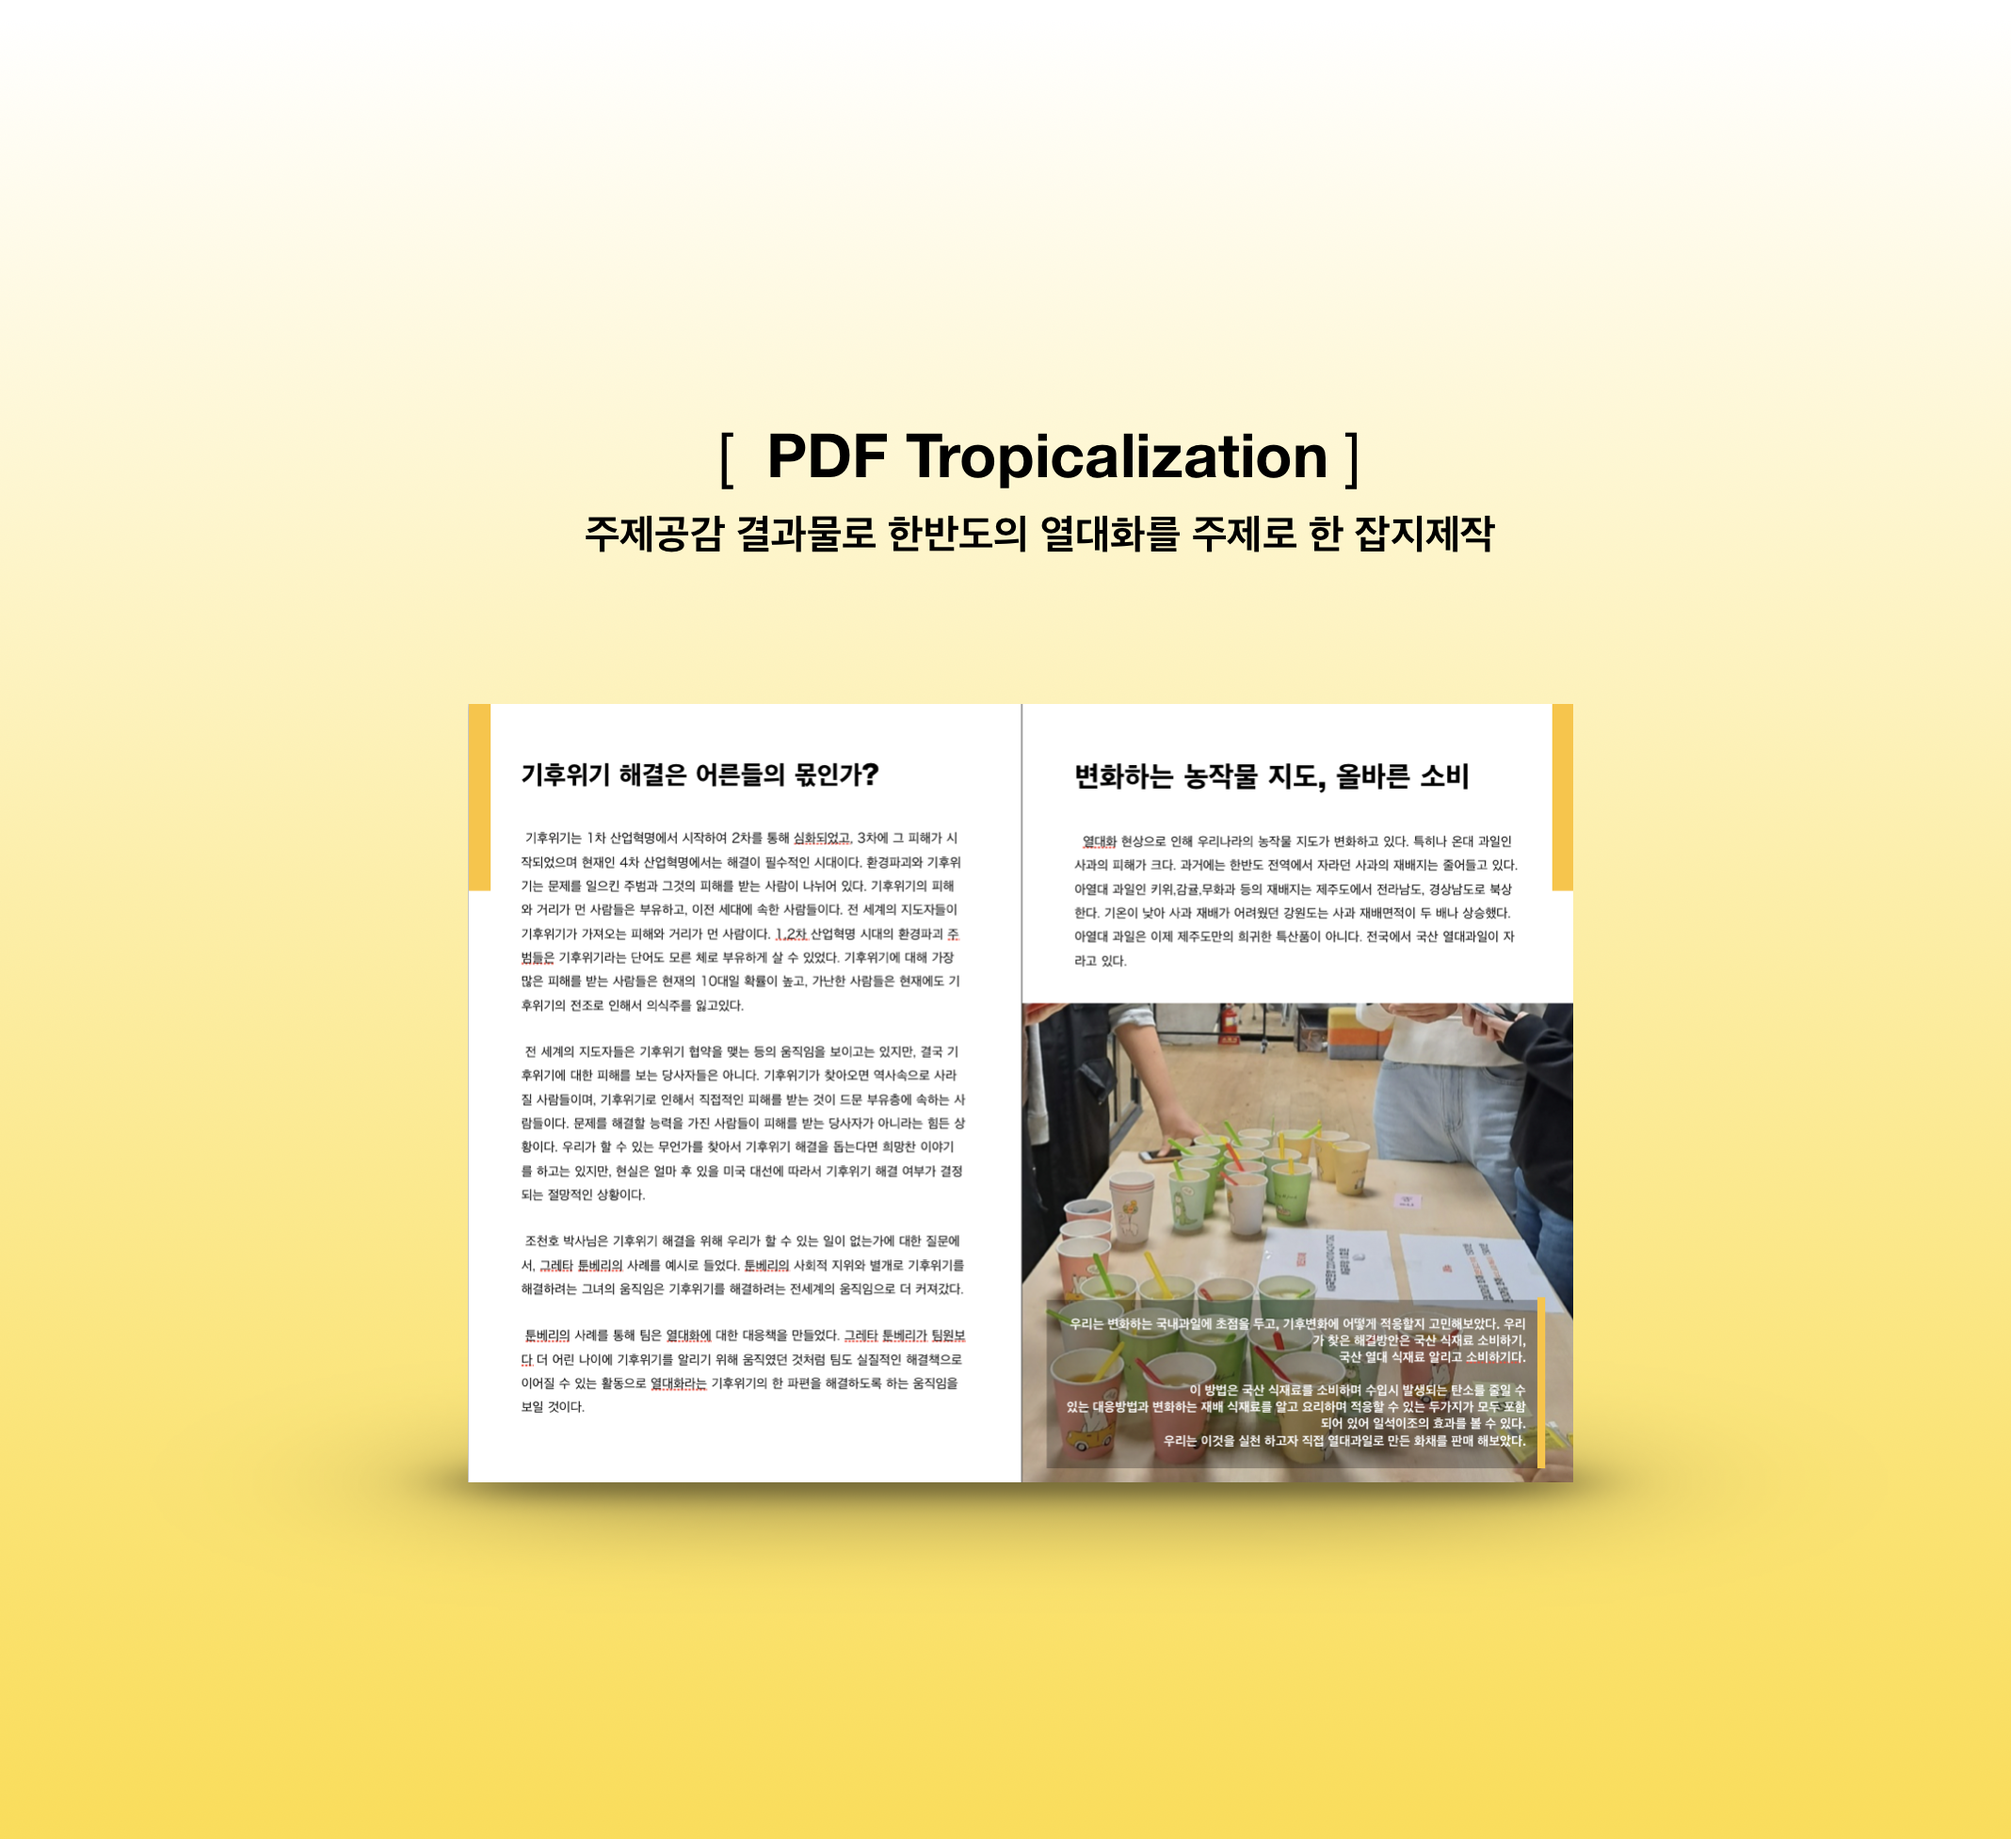
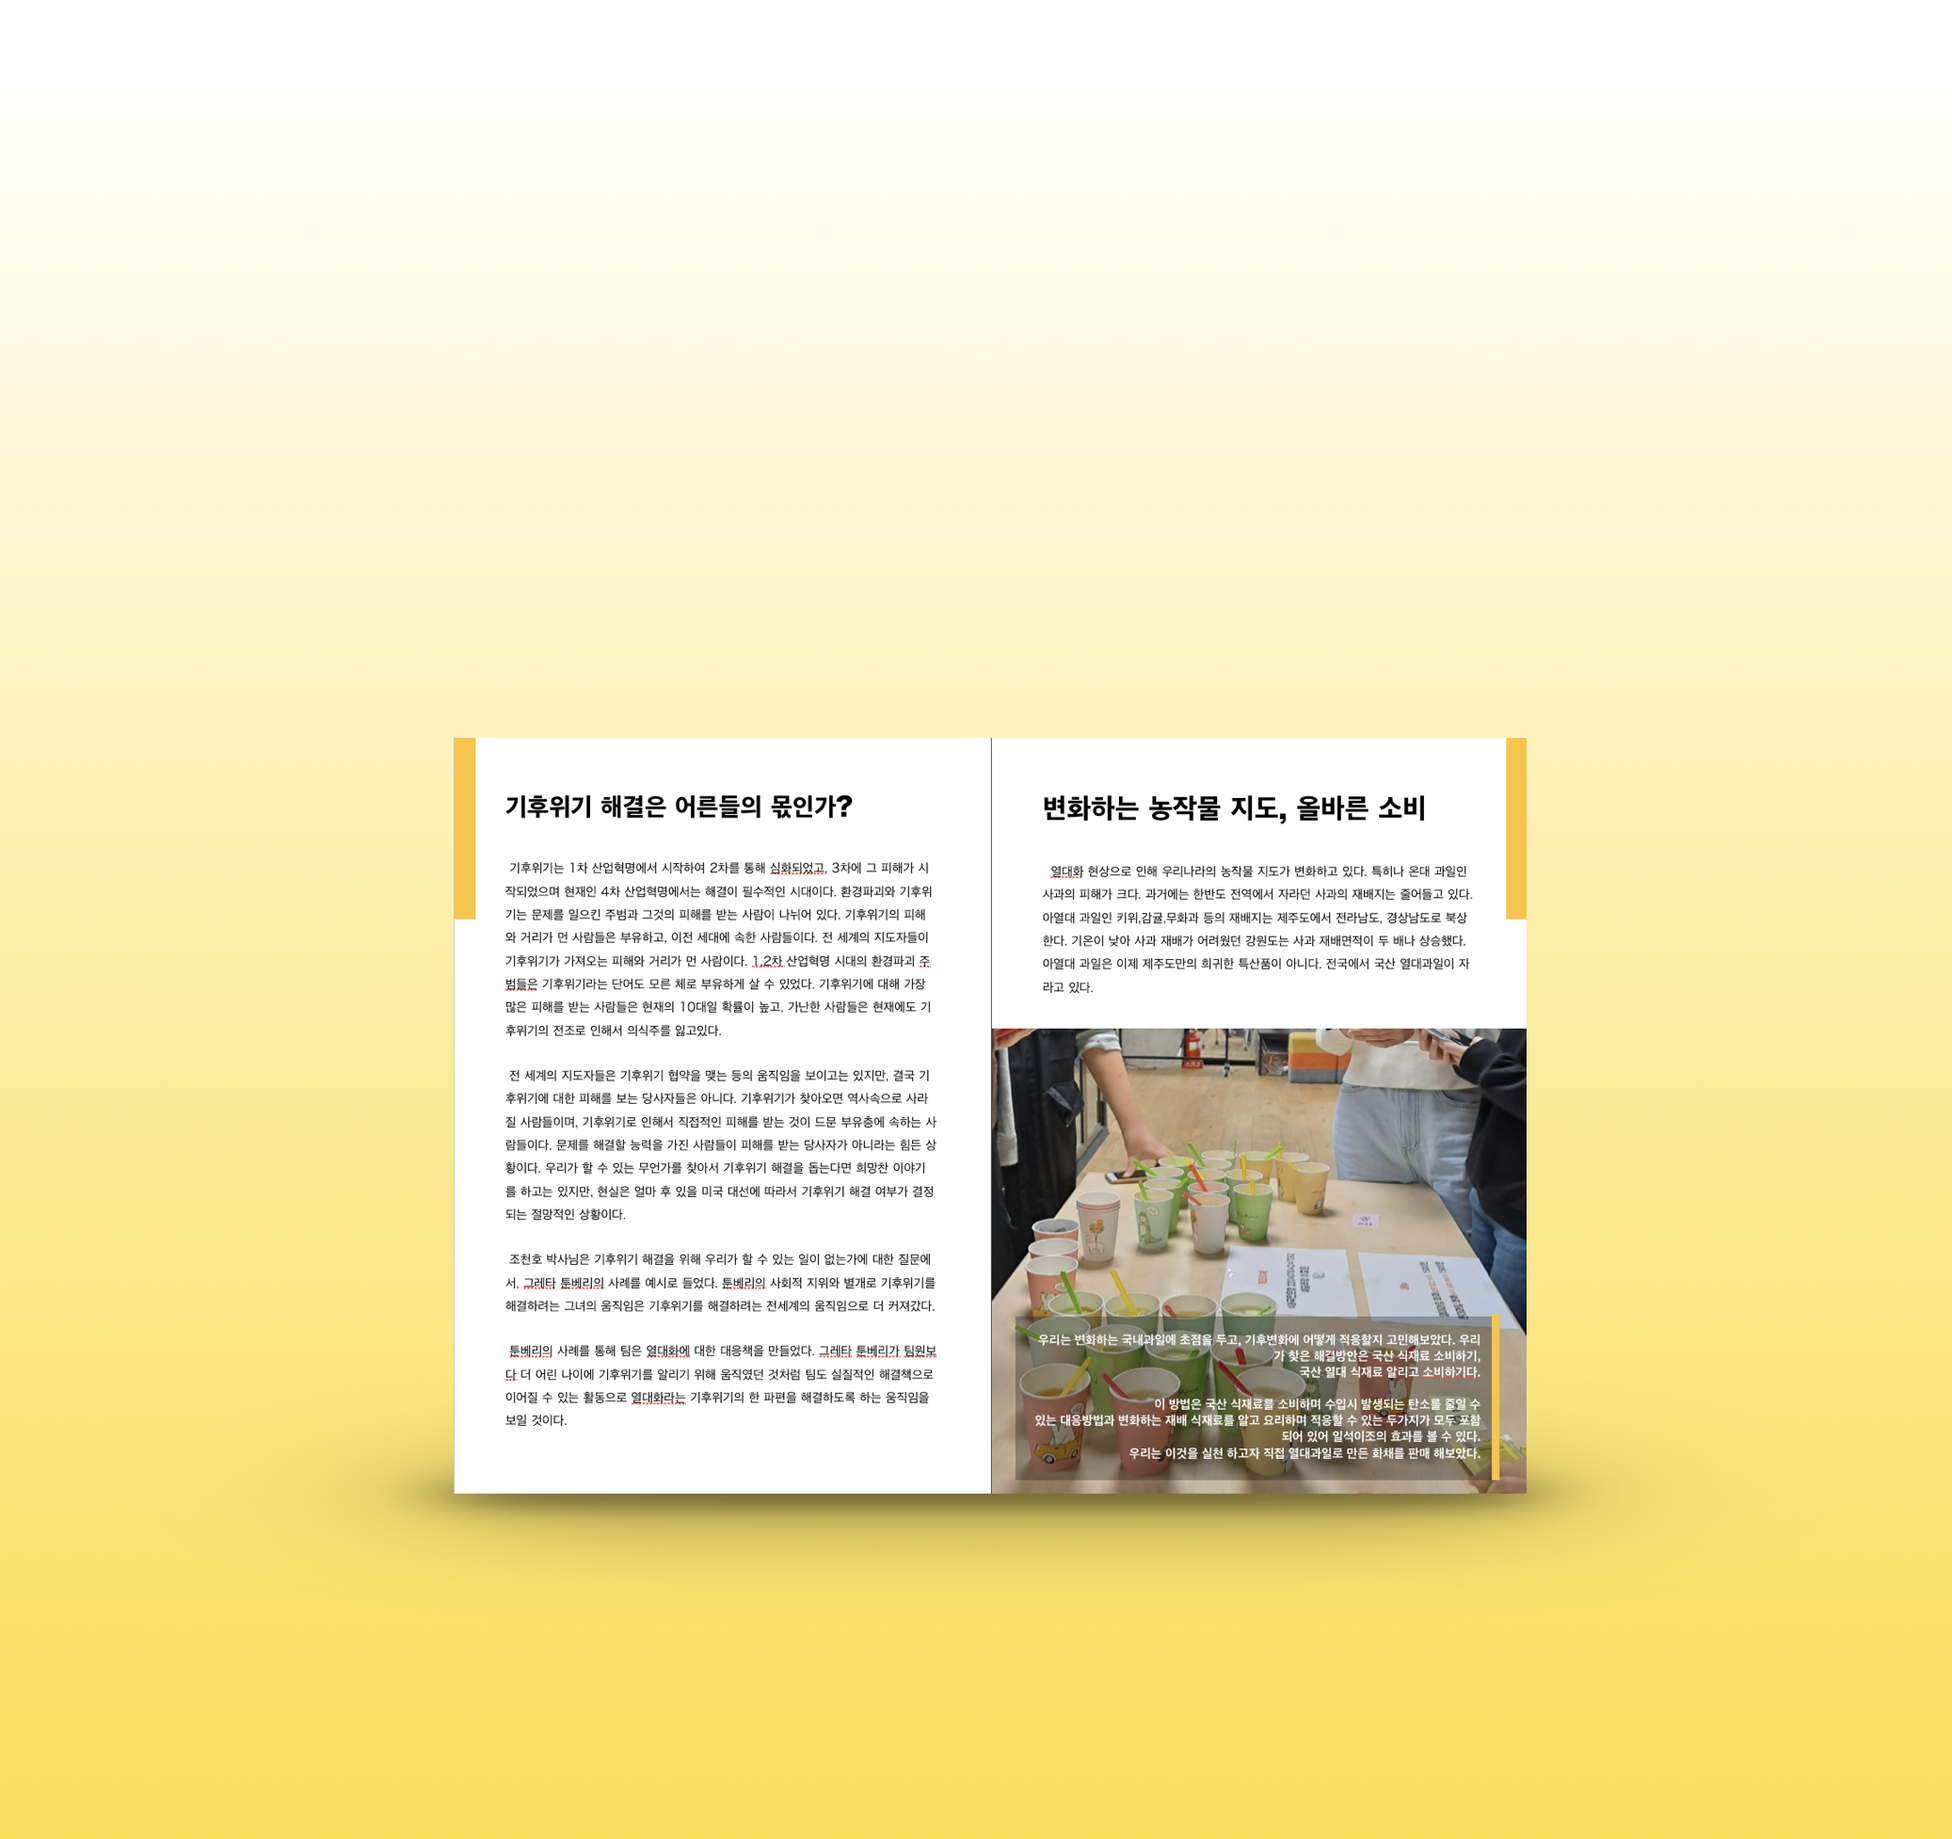
.

Changed region(s): [[0.216, 0.3746, 0.8023, 0.8429], [0.2777, 0.2185, 0.7406, 0.3122]]

diff --git a/judy.css b/judy.css
@@ -1,9 +1,6 @@
 @import url('https://fonts.googleapis.com/css2?family=Permanent+Marker&display=swap');
-@import url('https://fonts.googleapis.com/css2?family=Lato&display=swap');
 @import url('https://fonts.googleapis.com/css2?family=Bangers&display=swap');
-@import url('https://fonts.googleapis.com/css2?family=Caveat:wght@700&display=swap');
 @import url('https://fonts.googleapis.com/css2?family=Architects+Daughter&display=swap');
-
 
 /* header */
 .header {
@@ -82,8 +79,10 @@ margin: 0px auto;
 /* 팀,개인 프로젝트 */
 .my {
   text-align: center;
-  font-size: 40px ;
+  font-size: 36px;
   margin-bottom: 20px;
+  font-weight: 600;
+  font-family: 'Architects Daughter', cursive;
 }
 /* 1m개주프 */
 .container {
@@ -179,13 +178,33 @@ margin: 0px auto;
 .m32 {
     text-align: right;
     margin-right: 5%;
-    font-size: 40px ;
+    font-size: 36px;
     margin-bottom: 20px;
+    font-weight: 600;
+    font-family: 'Architects Daughter', cursive;
 }
 .m33 img {
-    width: 80%;
+    width: 70%;
     display: block;
     margin: 0 auto;
+}
+.m33 {
+    position: relative;
+}
+.m34 {
+    position: absolute;
+	top: 25%;
+    left: 42%;
+    text-align: center;
+    font-size: 33px;
+    font-weight: 700;
+    font-family: 'Architects Daughter', cursive;
+}
+.m33 strong {
+    position: absolute;
+	top: 31%;
+    left: 39%;
+    font-size: 20px;
 }
 /* 3m 개주프 */
 .container3 {
@@ -217,6 +236,7 @@ margin: 0px auto;
 .b3 img{
     width: 80px;
  }
+
 /* 4m */
 .map {
     position: relative;
@@ -244,8 +264,9 @@ margin: 0px auto;
 	left: 32%;
 }
 .mt1,.mt2{
-    font-size: 25px;
+    font-size: 35px;
     font-weight: 900;
+    font-family: 'Architects Daughter', cursive;
 }
 /* footer */
 .foo img {

diff --git a/index.html b/index.html
@@ -177,7 +177,10 @@
             <br>
             ∙ 또, 캐릭터 설정이나 이름 등을 정할 때 창의력이 많이 발휘되어 나중에 캐릭터 디자인을 할 기회가 있을때도<br>이런 아이디어를 유효하게 활용할 수 있을 것 같다. <br>
         </div>
-        <div class="m33"><img src="judyimg/3m6.png"></div>
+        <div class="m33"><img src="judyimg/3m6.png">
+            <div class="m34">[ PDF Tropicalization ]</div>
+            <strong>주제공감 결과물로 한반도의 열대화를 주제로 한 잡지제작</strong>
+        </div>
 
 
         <!-- 4m 시작 -->
